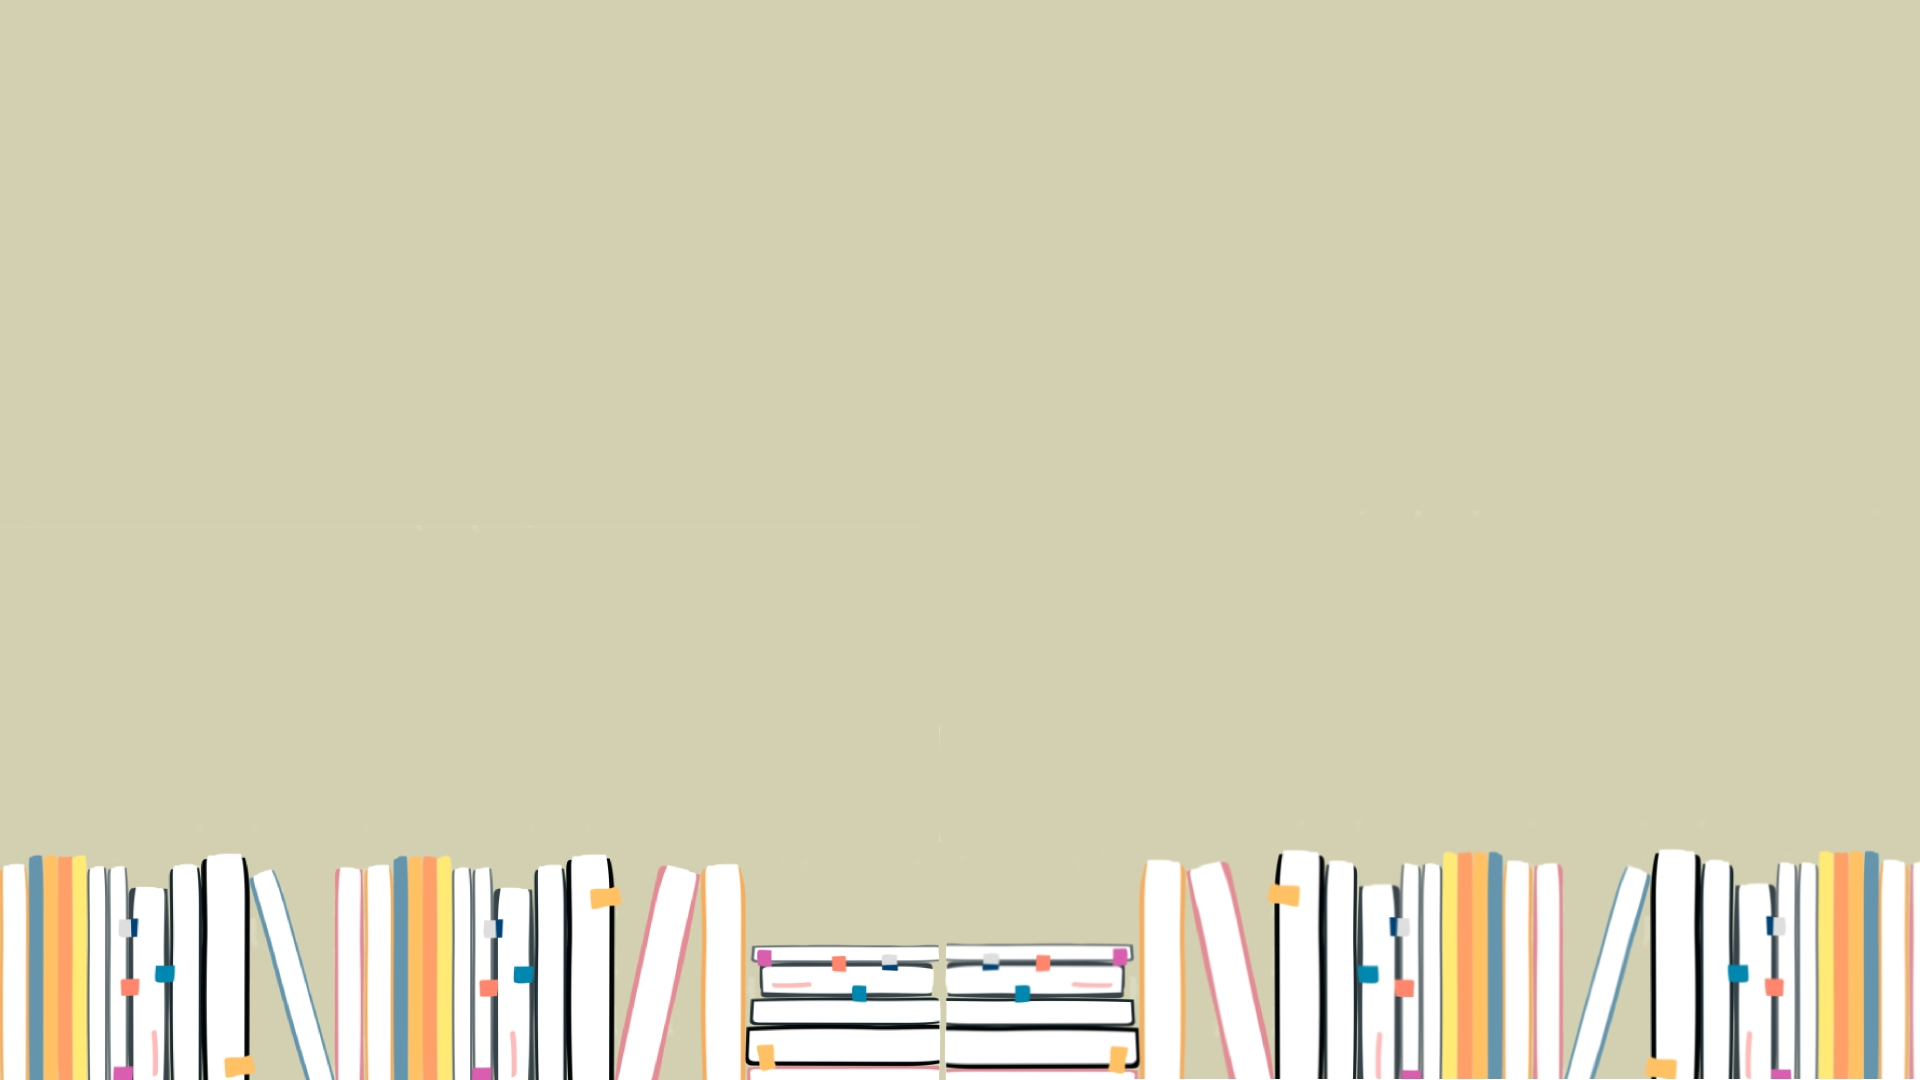
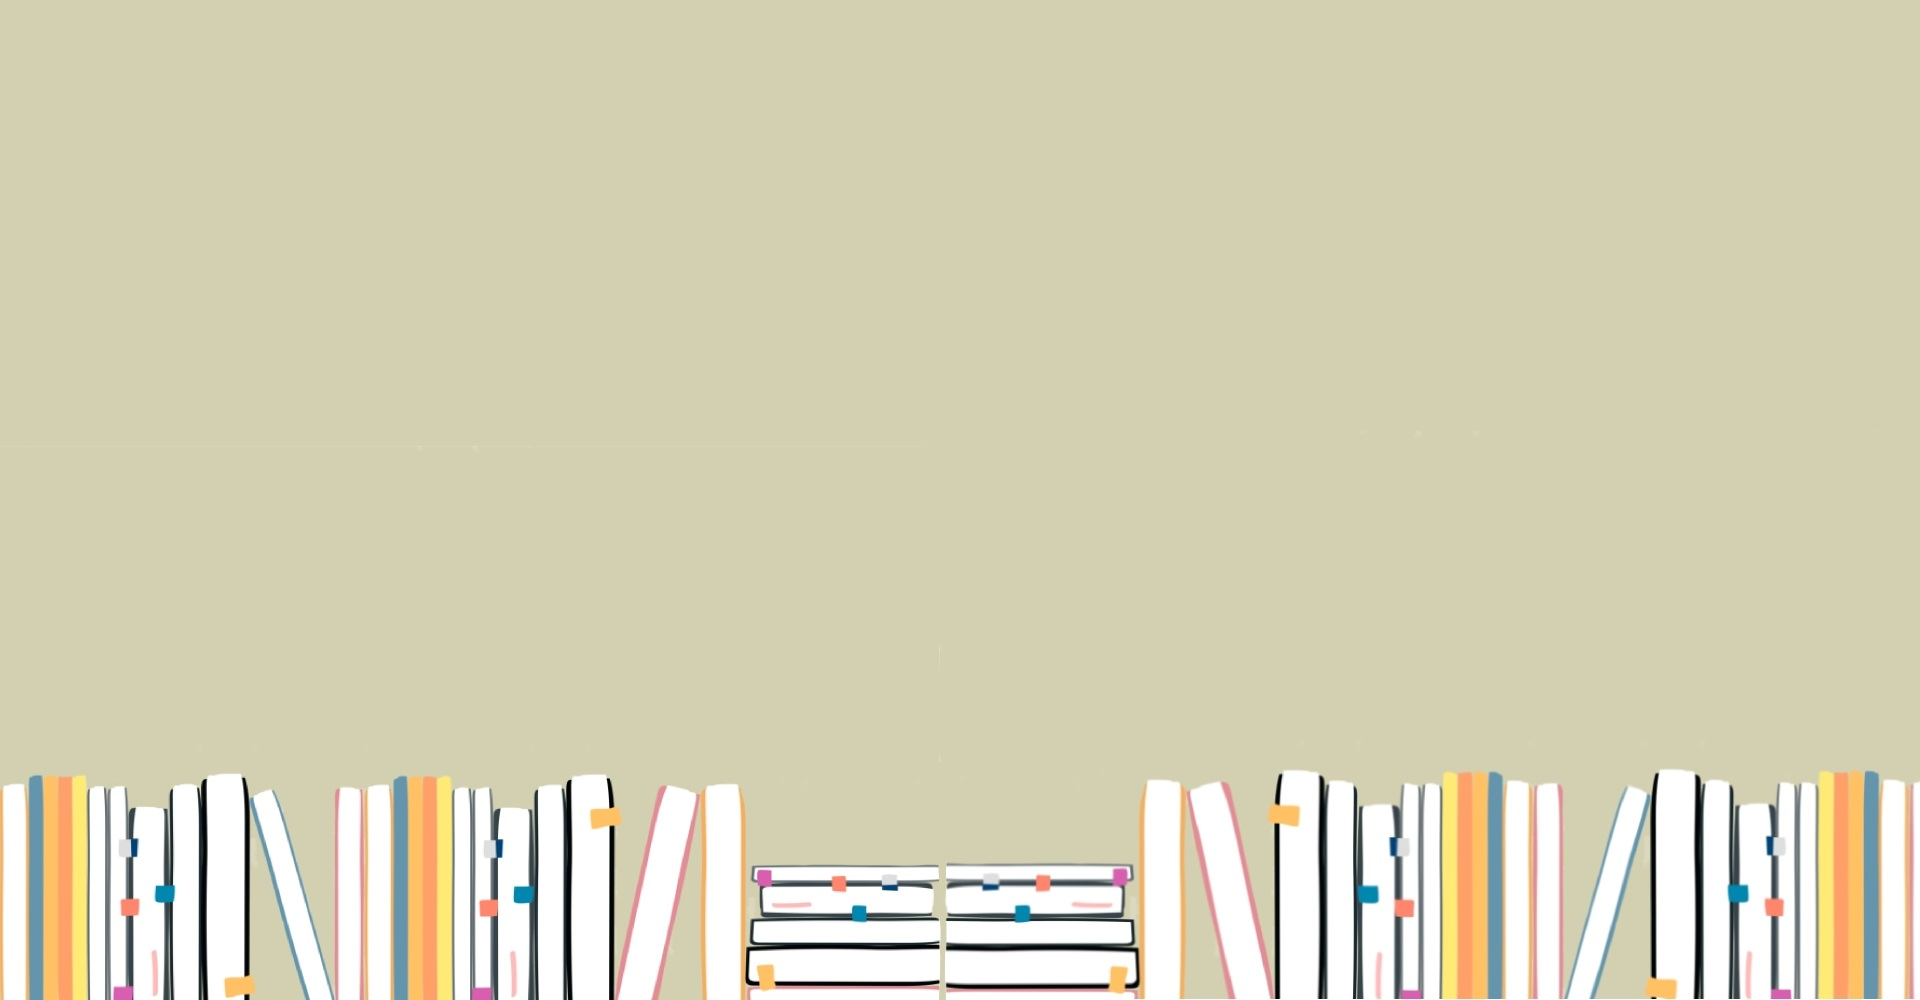
LandingPage fixed

diff --git a/index.html b/index.html
@@ -12,28 +12,35 @@
             <img src="./assets/css/bg-livros.jpeg" alt="">
         </div>
 
+       
+
         <div class="container">
-            <div class="mulheres-titulo">
-                <a href="#"><img src="./assets/img/molieres_negras.png" alt="" class="title"></a>
-            </div>
+
+            <div class="suba">
+                <div class="mulheres-titulo">
+                    <a href="#"><img src="./assets/img/molieres_negras.png" alt="" class="title"></a>
+                </div>
             
-            <div class="descricao">
-                <h1 class="titulo">Sobre o Projeto</h1>
-                <p class="texto">Em homenagem ao dia da consciência negra, os alunos do tópico de literatura e produção de texto realizaram uma pesquisa para prestigiar autoras negras importantes.</p>
+                <div class="descricao">
+                    <h1 class="titulo">Sobre o Projeto</h1>
+                    <p class="texto">Em homenagem ao dia da consciência negra, os alunos do tópico de literatura e produção de texto realizaram uma pesquisa para prestigiar autoras negras importantes.</p>
+                </div>
             </div>
+
+            
         </div>
 
-        <div class="grid">
+        <div class="row">
             <div class="autor">
-                <a href="./assets/autor.html"><img src="./assets/img/placeholder.png" alt=""></a>
+                <a href="./biografiaRyaneLeao.html"><img src="./assets/img/nome_Ryane-removebg-preview.png" alt="" class="ryane"></a>
             </div>
 
             <div class="autor">
-                <a href="./assets/autor.html"><img src="./assets/img/placeholder.png" alt=""></a>
+                <a href="./assets/autor.html"><img src="./assets/img/nome_Esmeralda-removebg-preview.png" alt=""></a>
             </div>
 
             <div class="autor">
-                <a href="./assets/autor.html"><img src="./assets/img/placeholder.png" alt=""></a>
+                <a href="./assets/autor.html"><img src="./assets/img/nome_Conceicao-removebg-preview.png" alt=""></a>
             </div>
         </div>
     </main>

diff --git a/biografiaRyaneLeao.html b/biografiaRyaneLeao.html
@@ -1,0 +1,32 @@
+<!DOCTYPE html>
+<html lang="pt-br">
+<head>
+    <meta charset="UTF-8">
+    <meta name="viewport" content="width=device-width, initial-scale=1.0">
+    <link rel="stylesheet" href="./assets/css/autores.css">
+    <title>Ryane Leão</title>
+</head>
+<body>
+    <main>
+        <section>
+            <div class="container">
+                <div class="header">
+                    <div class="row">
+                        <a href="./index.html" class="logo">
+                            <img src="./assets/img/molieres_negras.png" alt="Mulheres negras na literatura">
+                        </a>
+
+                        <img src="./assets/img/placeholder.png" alt="Ryane Leão" class="nome_autor">
+
+                        <img src="./assets/img/placeholder.png" alt="Foto da autora Ryane Leão" class="foto_autor">
+                    </div>
+                </div>
+                
+                <div class="menu">
+
+                </div>
+            </div>
+        </section>
+    </main>
+</body>
+</html>

diff --git a/assets/css/style.css b/assets/css/style.css
@@ -7,13 +7,15 @@
     box-sizing: border-box;
 }
 
-.container{
-    /* position: relative; */
+.container, .suba{
     display: flex;
     flex-direction: row;
     justify-content: center;
-    /* margin: 0 10rem; */
-    gap: 5rem;
+    gap: 0 5rem;
+}
+
+.suba{
+    margin-top: -11rem;
 }
 
 .descricao{
@@ -38,7 +40,7 @@ h1.titulo{
 .background{
     position: fixed;
     z-index: -1;
-    opacity: .5;
+    opacity: .4;
 }
 
 img.title{
@@ -46,10 +48,15 @@ img.title{
     height: auto;
 }
 
-/* GRID AUTORES */
-.grid{
-    display: grid;
-    grid-template-columns:repeat(3, 1fr);
+/* "GRID" AUTORES */
+.row{
+    display: flex;
+    flex-direction: row;
     align-items: center;
-    justify-content: center;
+    justify-content: space-around;
+    margin-top: -10rem;
+}
+
+.ryane{
+    padding-top: 3rem;
 }
